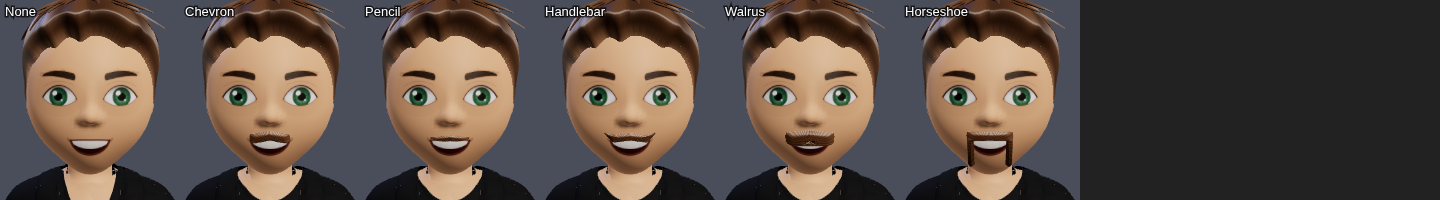
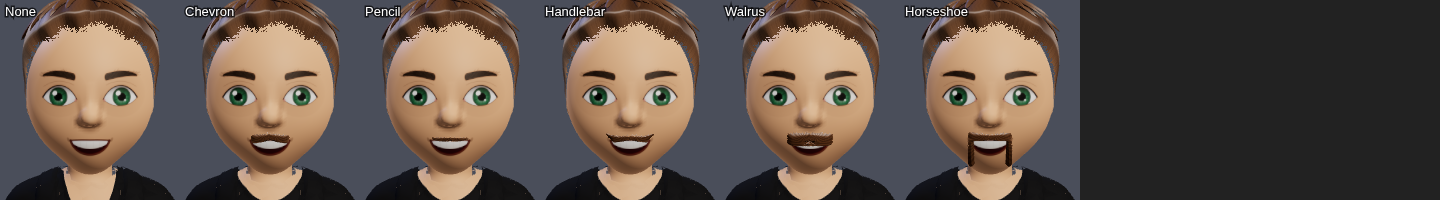
re-rendered ref sheets, closeups and grids; hair drop aE fix

diff --git a/src/mp/v2/hair.js b/src/mp/v2/hair.js
@@ -153,7 +153,7 @@ function buildDrop(head, st, fr, cols, thB, NPH, NR) {
   const NC = (NPH + 1) * (NS + 1);
   for (let j = 0; j < NPH; j++) { if (useCols[j] < .01 && useCols[j + 1] < .01) continue; for (let k = 0; k < NS; k++) { const a = j * (NS + 1) + k, b = (j + 1) * (NS + 1) + k; idx.push(a, b, a + 1, b, b + 1, a + 1); idx.push(NC + a, NC + a + 1, NC + b, NC + b, NC + a + 1, NC + b + 1); }
     const a = j * (NS + 1) + NS, b = (j + 1) * (NS + 1) + NS; idx.push(a, b, NC + a, b, NC + b, NC + a); }
-  const g = new THREE.BufferGeometry(); g.setAttribute('position', new THREE.Float32BufferAttribute(pos, 3)); g.setAttribute('aT', new THREE.Float32BufferAttribute(tan, 3)); g.setAttribute('aH', new THREE.Float32BufferAttribute(aux, 4)); g.setAttribute('aE', new THREE.Float32BufferAttribute(aE, 1)); g.setIndex(idx); g.computeVertexNormals(); return g;
+  const g = new THREE.BufferGeometry(); g.setAttribute('position', new THREE.Float32BufferAttribute(pos, 3)); g.setAttribute('aT', new THREE.Float32BufferAttribute(tan, 3)); g.setAttribute('aH', new THREE.Float32BufferAttribute(aux, 4)); g.setIndex(idx); g.computeVertexNormals(); return g;
 }
 
 // tousled clumps: tapered, grooved locks lying on the hair surface, swept forward / sideways from the crown, tips lifting off the surface
